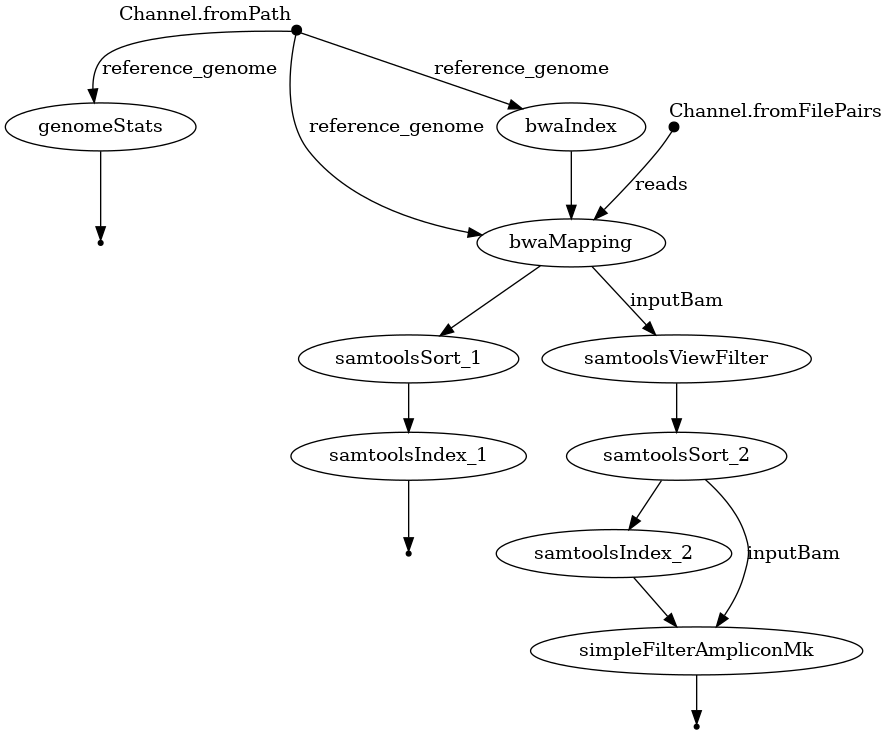
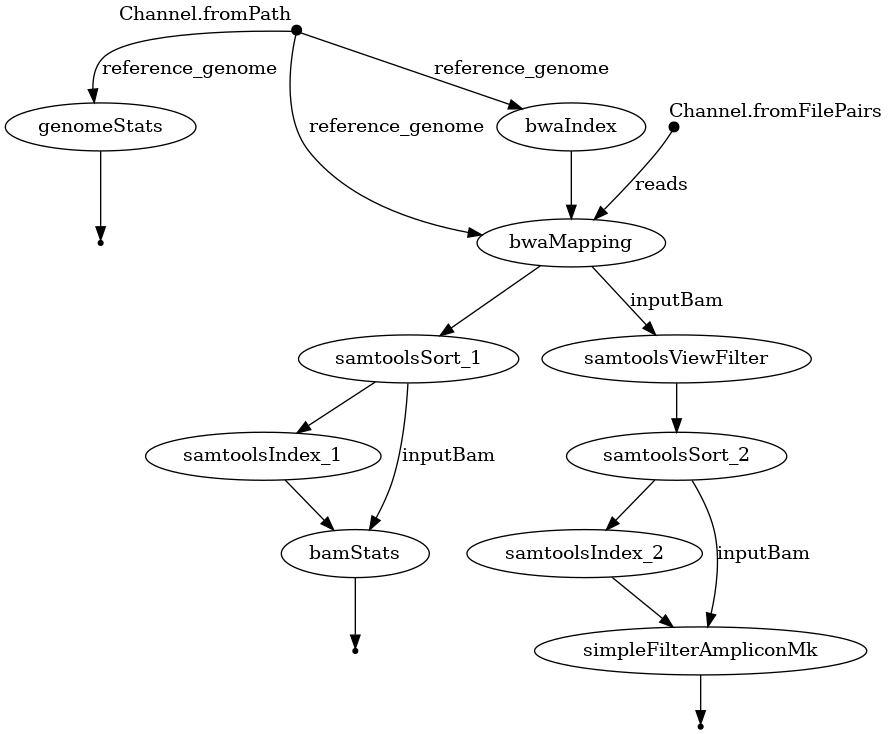
Added bamStats module
I added a simple module for calculating few trivial statistics from bam file
and saves it in json.gz file.

diff --git a/bin/bamStats.py b/bin/bamStats.py
@@ -1,0 +1,46 @@
+#!/usr/bin/env python3
+
+import argparse
+import gzip
+import json
+import os
+
+import pysam
+
+
+def analyze_bam_file(bam_file: str) -> dict:
+    f = pysam.AlignmentFile(bam_file)
+    stats = {}
+    meta = {
+        "filename": os.path.basename(bam_file),
+        "file_md5sum": os.popen(f"md5sum {bam_file}").read().split()[0],
+        "file_size_bytes": os.path.getsize(bam_file),
+    }
+    stats["meta"] = meta
+
+    bam_stats={
+        "mapped": f.mapped,
+        "unmapped": f.unmapped,
+        "total": f.mapped + f.unmapped,
+        "mapped_fraction": f.mapped / (f.mapped + f.unmapped),
+        "unmapped_fraction": f.unmapped / (f.mapped + f.unmapped),
+    }
+    stats["bam_stats"] = bam_stats
+    return stats
+
+
+def main():
+    parser = argparse.ArgumentParser(description='Generate some simple stats about a bam file in json format')
+    parser.add_argument('bam_file', help='alignment bam file')
+    parser.add_argument('--output', '-o', default="bamStats.json.gz", help='output json file')
+    args = parser.parse_args()
+    stats = analyze_bam_file(args.bam_file)
+    # with open(args.output, "w") as f:
+    #     json.dump(stats, f, indent=4)
+    with gzip.open(args.output, 'w') as f:
+        f.write(json.dumps(stats, indent=4).encode('utf-8'))
+    print(f"File {args.output} saved...")
+
+
+if __name__ == '__main__':
+    main()
